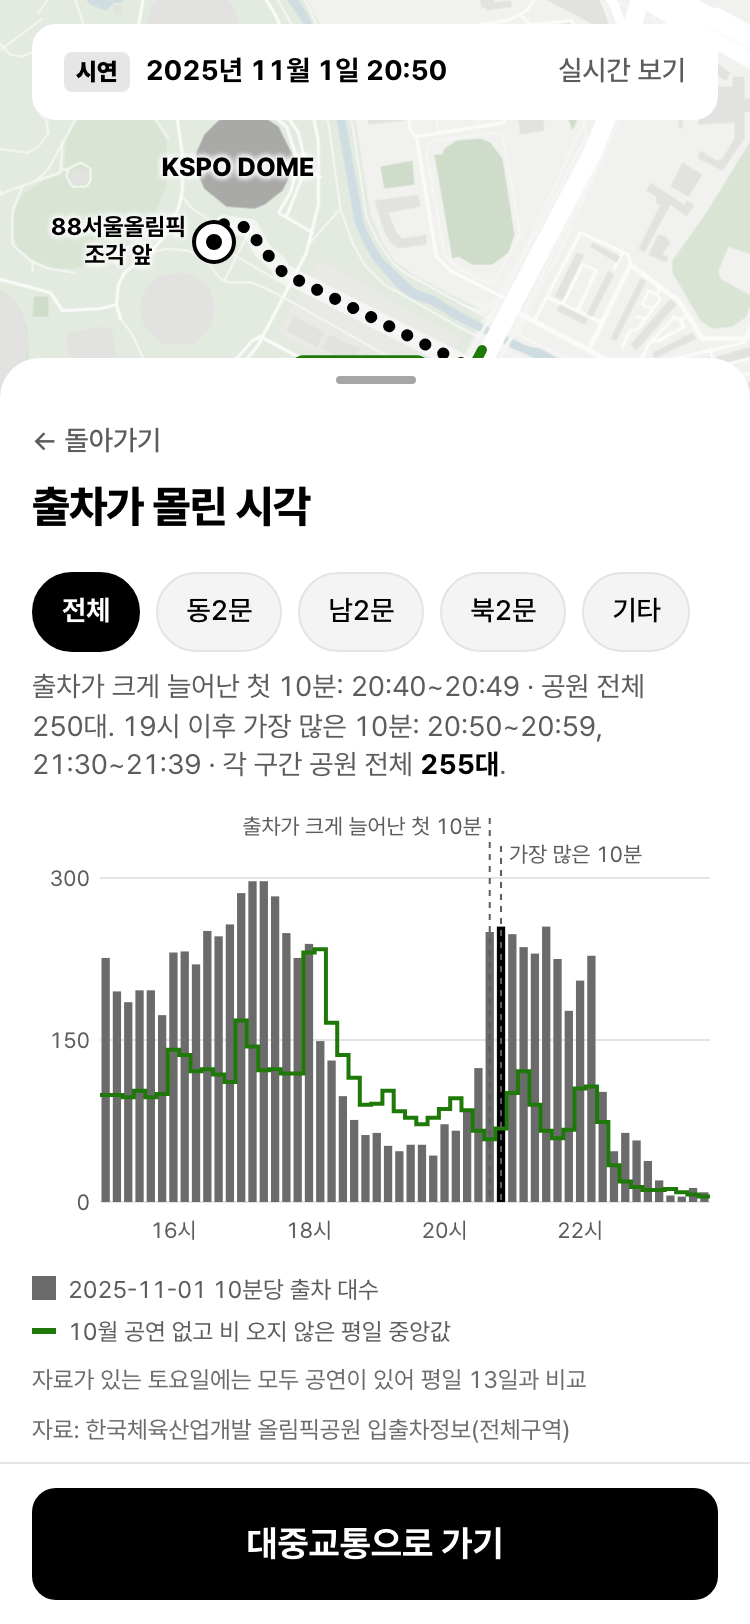
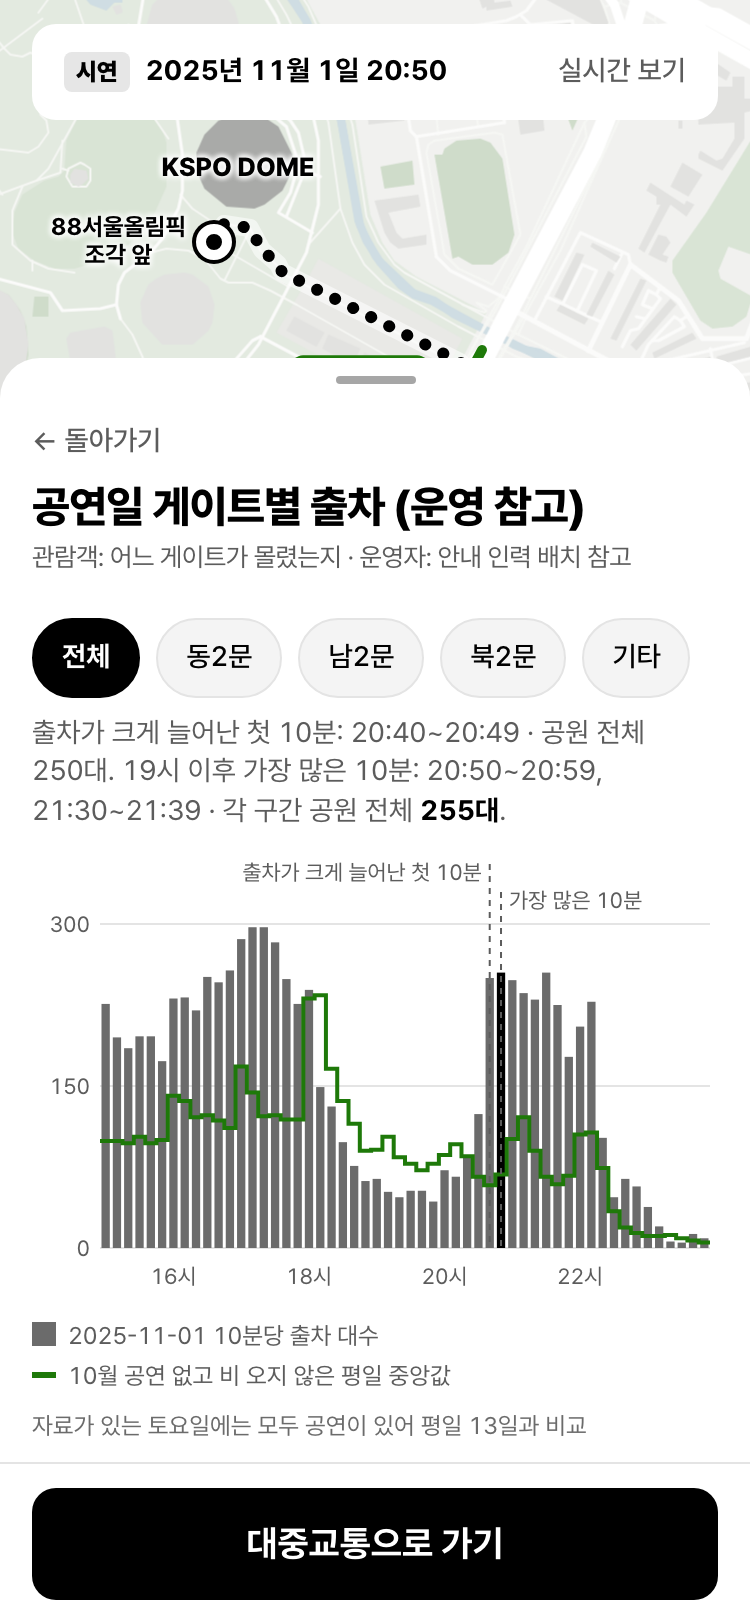
현장 귀가 안내로 문구 정리: 첫 화면 부제, 지도 앱 링크, 출차 화면 운영 참고

Changed region(s): [[0.0307, 0.2771, 0.9507, 0.8929]]

diff --git a/public/app.js b/public/app.js
@@ -156,16 +156,21 @@
       (a.last && b && b.min != null ? '<span class="miss1">막차 <b>' + a.last + '</b> · ' + a.lastNote + '</span>' : '');
     return h + '</button>';
   }
+  function place(x) { return x.kind === 'bus' ? x.o.stop_name : x.name; }
   function list() {
     var box = $('list'); if (!box) return;
     var had = document.activeElement && box.contains(document.activeElement) ? document.activeElement.dataset.i : null;
     box.innerHTML = opts.map(row).join('');
+    // 길찾기는 만들지 않는다. 고른 방면의 역·정류장 이름으로 네이버 지도 검색을 새 탭에 연다.
+    var m = $('more'), u = 'https://map.naver.com/p/search/' + encodeURIComponent(place(opts[sel]));
+    if (!m.firstChild || m.firstChild.href !== u) m.innerHTML = link(u, '목적지까지 전체 경로는 지도 앱에서 ↗');
     if (had != null) box.querySelector('[data-i="' + had + '"]').focus({ preventScroll: true });
   }
   function home() {
     $('view').innerHTML = '<div class="event"><p><b>KSPO DOME</b> 아이브 서울 2회차 18:00</p><button type="button" data-go="#/event" aria-label="공연 바꾸기">바꾸기</button></div>' +
-      '<h1 tabindex="-1">어느 쪽으로 가세요?</h1><div id="list" role="group" aria-label="가는 방면"></div>' +
-      '<button type="button" class="goto" data-go="#/car"><b>자가용으로 오셨나요?</b><span>출차가 몰린 시각 보기 →</span></button>' +
+      '<h1 tabindex="-1">어느 쪽으로 가세요?</h1><p class="lead">KSPO DOME 현장 귀가 안내 · 목적지 입력 없이 방면만 고르세요</p>' +
+      '<div id="list" role="group" aria-label="가는 방면"></div><p class="more" id="more"></p>' +
+      '<button type="button" class="goto" data-go="#/car"><b>자가용으로 오셨나요?</b><span>게이트별 출차 보기 →</span></button>' +
       scenario() + '<p class="foot">' + (mode === 'demo' ? '버스 도착 시간은 시연용 예시값입니다. 막차는 2026년 11월 24일 서울시 조회값입니다. ' : '실시간 보기에서도 공연은 시연 회차로 고정됩니다. ') +
       '도보는 지도 경로 추정이며 신호 대기와 공연장 안에서 걷는 시간은 빠져 있습니다.<br>자료: 한국체육산업개발 · 서울특별시 · OpenStreetMap</p>';
     list();
@@ -280,7 +285,7 @@
       cmp: c ? Object.assign({ all: sum(c.counts) }, c.counts) : null, start: j.markers && j.markers.surge_start, peak: j.markers && j.markers.peak, notes: j.notes || [] };
   }
   function car() {
-    $('view').innerHTML = '<button type="button" class="back" data-go="#/">← 돌아가기</button><h1 tabindex="-1">출차가 몰린 시각</h1><div class="pad" id="car"><p class="note">불러오는 중…</p></div>';
+    $('view').innerHTML = '<button type="button" class="back" data-go="#/">← 돌아가기</button><h1 tabindex="-1">공연일 게이트별 출차 (운영 참고)</h1><p class="lead">관람객: 어느 게이트가 몰렸는지 · 운영자: 안내 인력 배치 참고</p><div class="pad" id="car"><p class="note">불러오는 중…</p></div>';
     if (exitData) return chart();
     fetch('data/exit_counts.json', { cache: 'no-store' }).then(function (r) { if (!r.ok) throw 0; return r.json(); })
       .then(function (j) { exitData = norm(j); chart(); })

diff --git a/public/app.css b/public/app.css
@@ -72,6 +72,11 @@ a { color: inherit; text-underline-offset: 3px; }
 h1:focus { outline: none; }
 h1 { font-size: var(--fs-title); font-weight: var(--fw-heavy); line-height: var(--lh-tight); letter-spacing: -.02em; padding: 0 var(--sp-2) var(--sp-2); }
 
+h1 + .lead { margin-top: calc(var(--sp-1) * -1); }
+.lead { padding: 0 var(--sp-2) var(--sp-2); font-size: 13px; letter-spacing: -.02em; line-height: 1.45; color: var(--text-2); word-break: keep-all; }
+.more { padding: 0 var(--sp-2); font-size: 13px; color: var(--text-2); }
+.more a { min-height: var(--tap); display: inline-flex; align-items: center; text-decoration: underline; text-underline-offset: 3px; }
+
 .row {
   display: grid; grid-template-columns: 1fr auto; column-gap: var(--sp-3); align-items: center; width: 100%;
   padding: 6px var(--sp-2); border-radius: var(--r-row); border: 2px solid transparent; position: relative;

diff --git a/public/index.html b/public/index.html
@@ -4,7 +4,7 @@
   <meta charset="utf-8">
   <meta name="viewport" content="width=device-width, initial-scale=1, viewport-fit=cover">
   <title>공연 끝, 귀갓길</title>
-  <meta name="description" content="KSPO DOME 공연 뒤 탈 곳을 찾는 귀가 안내 (공모전 시연용)">
+  <meta name="description" content="KSPO DOME 현장 귀가 안내. 목적지 입력 없이 방면만 고르면 탈 곳을 보여 줍니다 (공모전 시연용)">
   <meta name="theme-color" content="#0d0d0d" media="(prefers-color-scheme: dark)">
   <meta name="theme-color" content="#ffffff" media="(prefers-color-scheme: light)">
   <link rel="stylesheet" href="https://cdn.jsdelivr.net/npm/pretendard@1.3.9/dist/web/variable/pretendardvariable-dynamic-subset.min.css">
